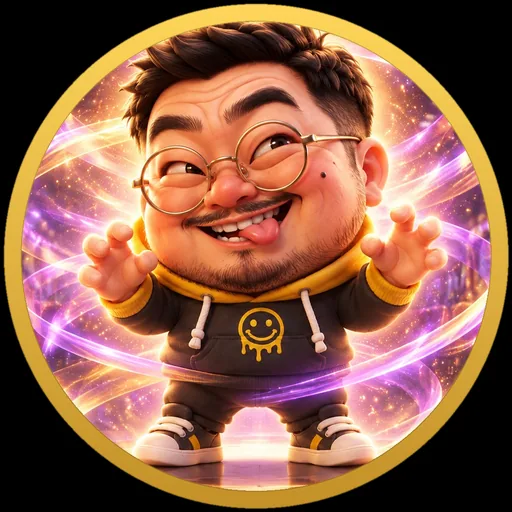
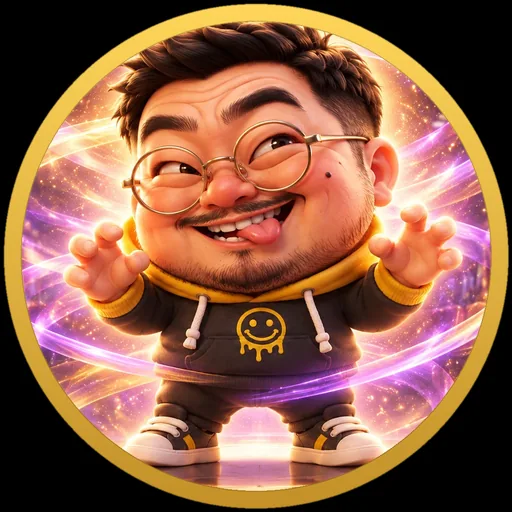
アイコン31番の画像を、正しい比率で切り直して差し替え（pop0.70.15・画像のみ）
Claude-Session: https://claude.ai/code/session_01NmSafmmPRSpXEh3phXd9Ra

diff --git a/multiplayer/room/room.js b/multiplayer/room/room.js
@@ -1,23 +1,23 @@
 import { initializeApp } from 'https://www.gstatic.com/firebasejs/13.0.0/firebase-app.js';
 const LS=(()=>{const m={};let ok=true;try{localStorage.setItem('_t','1');localStorage.removeItem('_t');}catch{ok=false;}return{getItem:k=>{if(ok)try{return localStorage.getItem(k);}catch{}return k in m?m[k]:null;},setItem:(k,v)=>{m[k]=String(v);if(ok)try{localStorage.setItem(k,v);}catch{}},removeItem:k=>{delete m[k];if(ok)try{localStorage.removeItem(k);}catch{}}};})();
 import { getAuth, signInAnonymously, setPersistence, browserLocalPersistence } from 'https://www.gstatic.com/firebasejs/13.0.0/firebase-auth.js';
-import { isLocal, getDatabase, ref, set, get, update, onValue, onDisconnect, runTransaction, serverTimestamp } from './fb.js?v=pop0.70.14';
+import { isLocal, getDatabase, ref, set, get, update, onValue, onDisconnect, runTransaction, serverTimestamp } from './fb.js?v=pop0.70.15';
 import { firebaseConfig } from './firebase-config.js';
 import QRCode from './vendor/qrcode.mjs';
-import { attachTen } from './ten.js?v=pop0.70.14';
-import { attachNpcs, npcNames } from './npc.js?v=pop0.70.14';
-import { FEEDBACK_URL } from './feedback-config.js?v=pop0.70.14';
-import { attachOni, attachOniBots } from './oni.js?v=pop0.70.14';
-import { track, trackError, logEnabled } from './telemetry.js?v=pop0.70.14';
-import { ensureAdult } from './agegate.js?v=pop0.70.14';
-import { AVATARS, avatarOf } from './avatars.js?v=pop0.70.14';
+import { attachTen } from './ten.js?v=pop0.70.15';
+import { attachNpcs, npcNames } from './npc.js?v=pop0.70.15';
+import { FEEDBACK_URL } from './feedback-config.js?v=pop0.70.15';
+import { attachOni, attachOniBots } from './oni.js?v=pop0.70.15';
+import { track, trackError, logEnabled } from './telemetry.js?v=pop0.70.15';
+import { ensureAdult } from './agegate.js?v=pop0.70.15';
+import { AVATARS, avatarOf } from './avatars.js?v=pop0.70.15';
 // テスター端末（?tester=1 で一度開いた端末）は、左上のバッジを赤＋TESTにして、本番と見間違えないようにする（見た目だけ）
 try{if(localStorage.getItem('nq-tester')==='1'){const b=document.querySelector('.badge');if(b){b.textContent+=' TEST';b.style.cssText+=';background:#e91855;color:#fff;padding:1px 7px;border-radius:8px;font-weight:700';}}}catch{}
 // 20歳以上の確認が済むまで、このあとの処理（部屋への参加など）は動かさない。
 await ensureAdult();
 
 const $ = id => document.getElementById(id);
-const homePage = new URL('./', location.href); homePage.searchParams.set('v','pop0.70.14'); if (isLocal) homePage.searchParams.set('npc','1'); if (isLocal && new URL(location.href).searchParams.get('dev')==='1') homePage.searchParams.set('dev','1');
+const homePage = new URL('./', location.href); homePage.searchParams.set('v','pop0.70.15'); if (isLocal) homePage.searchParams.set('npc','1'); if (isLocal && new URL(location.href).searchParams.get('dev')==='1') homePage.searchParams.set('dev','1');
 const homeUrl = homePage.href;
 const params = new URL(location.href).searchParams;
 const validRoom = value => /^[a-f0-9]{32}$/.test(value || '');
@@ -107,14 +107,14 @@ if(isLocal){
  gp.innerHTML='練習をはじめる <span aria-hidden="true">→</span><small>1人用・通信なし'+(dv?'・🛠開発者モード':'')+'</small>';
  const bx=document.createElement('div');bx.className='nqh-two';bx.style.marginTop='10px';
  const mk=(t,h)=>{const x=document.createElement('a');x.className='nqh-button nqh-secondary';x.textContent=t;x.href=h;return x;};
- if(!dv)bx.append(mk('🛠 開発者モードで開く','?v=pop0.70.14&npc=1&dev=1'));
- bx.append(mk('通常のホームへ','?v=pop0.70.14'));
+ if(!dv)bx.append(mk('🛠 開発者モードで開く','?v=pop0.70.15&npc=1&dev=1'));
+ bx.append(mk('通常のホームへ','?v=pop0.70.15'));
  gp.insertAdjacentElement('afterend',bx);
 }
 // 開発者モード：ホームのスイッチをオンにすると、「1人で遊ぶ」は必ず開発者モードで始まる
 if(!isLocal){
  const DK='nq-dev',lk=$('npcLink'),tg=document.createElement('button');tg.type='button';tg.id='devToggle';tg.className='nqh-button nqh-secondary';tg.style.marginTop='10px';
- const paint=()=>{const on=LS.getItem(DK)==='1';tg.textContent=on?'🛠 開発者モード：オン':'🛠 開発者モード：オフ';tg.innerHTML=on?'🛠 開発者モード：オン<small style="display:block;font-weight:400;margin-top:3px">「1人で遊ぶ」から入ると、好きなゲーム・お題を選べます（部屋を作る場合は使えません）</small>':'🛠 開発者モード：オフ';tg.setAttribute('aria-pressed',on?'true':'false');if(lk){lk.href=on?'?v=pop0.70.14&npc=1&dev=1':'?npc=1';let sm=lk.querySelector('small');if(on){if(!sm){sm=document.createElement('small');lk.append(sm);}sm.textContent='🛠 開発者モードで始まります';}else sm?.remove();}};
+ const paint=()=>{const on=LS.getItem(DK)==='1';tg.textContent=on?'🛠 開発者モード：オン':'🛠 開発者モード：オフ';tg.innerHTML=on?'🛠 開発者モード：オン<small style="display:block;font-weight:400;margin-top:3px">「1人で遊ぶ」から入ると、好きなゲーム・お題を選べます（部屋を作る場合は使えません）</small>':'🛠 開発者モード：オフ';tg.setAttribute('aria-pressed',on?'true':'false');if(lk){lk.href=on?'?v=pop0.70.15&npc=1&dev=1':'?npc=1';let sm=lk.querySelector('small');if(on){if(!sm){sm=document.createElement('small');lk.append(sm);}sm.textContent='🛠 開発者モードで始まります';}else sm?.remove();}};
  tg.onclick=()=>{try{LS.setItem(DK,LS.getItem(DK)==='1'?'0':'1');}catch{}paint();};
  paint();$('tell').parentElement.insertAdjacentElement('afterend',tg);
 }
@@ -449,7 +449,7 @@ try {
       const dvOn=new URL(location.href).searchParams.get('dev')==='1',nb=document.createElement('div');
       nb.className='devNote';nb.style.cssText='margin:10px 24px 0;padding:10px 12px;border:1.5px dashed #f2c14e;border-radius:14px;color:#ffe9a3;font-size:13px;text-align:center';
       if(dvOn)nb.textContent='🛠 開発者モード中：スタートすると、画面の右下に🛠が出ます。押すと好きなゲームを選べます。';
-      else{const l=document.createElement('a');l.href='?v=pop0.70.14&npc=1&dev=1';l.textContent='🛠 開発者モードで始め直す（好きなゲームを選べる）';l.style.cssText='color:#ffe9a3;font-weight:800';nb.append(l);}
+      else{const l=document.createElement('a');l.href='?v=pop0.70.15&npc=1&dev=1';l.textContent='🛠 開発者モードで始め直す（好きなゲームを選べる）';l.style.cssText='color:#ffe9a3;font-weight:800';nb.append(l);}
       $('lenBox').insertAdjacentElement('afterend',nb);
     }
     $('lead').innerHTML='通信なしの練習モード。<br>NPCが自動で答えて進みます。';

diff --git a/multiplayer/room/ten.js b/multiplayer/room/ten.js
@@ -1,17 +1,17 @@
 import {artPath,isIcon} from './pop-art.js';
-import {ref,set,get,update,onValue,runTransaction,isLocal,serverTimestamp} from './fb.js?v=pop0.70.14';
-import {showItemFx} from './itemfx.js?v=pop0.70.14';
-import {shufflePlayers,currentTurn} from './turn.js?v=pop0.70.14';
-import {majW,ALL_CARDS,SOLO_CARDS,SOLO_COOLDOWN,LAP_CARDS,cardForRound,isBreak,turnsToBreak,checkStates,tiedTargets,tieCards,cards,votePrompts,muttsuriPrompts,majorityPrompts,mindPrompts,pickPrompt,drawCard,drawDirection,targetsFor,shuffleButtons,drinkAward,tieRoulette,items,itemKinds,drawItem,itemGroup,ITEM_CAP,decideCredit,winnersFor,REACTION_FAIL,dangerOutcome,rewardees,missionStats,kingOrders,kingCats,hasDoubt,breakPeriod,ticketWindow,ticketsFor,tequilaPlan,tequilaPlanOne,sumTickets,NOTCHES,BREAK_DRAWS,tequilaOutcome,itemChoices,tenExact,BAT_LIE,batPct,batLie} from './deck.js?v=pop0.70.14';
-import {REST_CARD} from './deck.js?v=pop0.70.14';
-import {genLayout,replay as gridReplay,startOf as gridStartOf,genHints,hintOk,parseLay,canMove as gridCan,resultsOf as gridResults,CELLS as GCELLS,PASS as GPASS} from './grid.js?v=pop0.70.14';
-import {RL_CONFIG,STAGES as RLS,KIND as RLK,pickOutcome as rlPick,newArt as rlArt,planSpin as rlPlan,rlOrder,chainOf as rlChain,finalOf as rlFinal,curSpinner as rlCur,currentChoice as rlChoice,resultsOfRl,itemsOfCode,KEY_OF_CODE} from './roulette.js?v=pop0.70.14';
-import {createRoulette} from './roulette-ui.js?v=pop0.70.14';
-import {chooseCard,didMission,parseKey,newSeed,pickMindPool,mindToText,mindFromText,pickKingOrders} from './draw.js?v=pop0.70.14';
-import {avatarOf} from './avatars.js?v=pop0.70.14';
-import {doubtH1} from './result-h1.js?v=pop0.70.14';
-import {bombResult,BLAST_S} from './result-bomb.js?v=pop0.70.14';
-import {rockSvg,openedSvg,pickSvg,sparkSvg} from './grid-rocks.js?v=pop0.70.14';
+import {ref,set,get,update,onValue,runTransaction,isLocal,serverTimestamp} from './fb.js?v=pop0.70.15';
+import {showItemFx} from './itemfx.js?v=pop0.70.15';
+import {shufflePlayers,currentTurn} from './turn.js?v=pop0.70.15';
+import {majW,ALL_CARDS,SOLO_CARDS,SOLO_COOLDOWN,LAP_CARDS,cardForRound,isBreak,turnsToBreak,checkStates,tiedTargets,tieCards,cards,votePrompts,muttsuriPrompts,majorityPrompts,mindPrompts,pickPrompt,drawCard,drawDirection,targetsFor,shuffleButtons,drinkAward,tieRoulette,items,itemKinds,drawItem,itemGroup,ITEM_CAP,decideCredit,winnersFor,REACTION_FAIL,dangerOutcome,rewardees,missionStats,kingOrders,kingCats,hasDoubt,breakPeriod,ticketWindow,ticketsFor,tequilaPlan,tequilaPlanOne,sumTickets,NOTCHES,BREAK_DRAWS,tequilaOutcome,itemChoices,tenExact,BAT_LIE,batPct,batLie} from './deck.js?v=pop0.70.15';
+import {REST_CARD} from './deck.js?v=pop0.70.15';
+import {genLayout,replay as gridReplay,startOf as gridStartOf,genHints,hintOk,parseLay,canMove as gridCan,resultsOf as gridResults,CELLS as GCELLS,PASS as GPASS} from './grid.js?v=pop0.70.15';
+import {RL_CONFIG,STAGES as RLS,KIND as RLK,pickOutcome as rlPick,newArt as rlArt,planSpin as rlPlan,rlOrder,chainOf as rlChain,finalOf as rlFinal,curSpinner as rlCur,currentChoice as rlChoice,resultsOfRl,itemsOfCode,KEY_OF_CODE} from './roulette.js?v=pop0.70.15';
+import {createRoulette} from './roulette-ui.js?v=pop0.70.15';
+import {chooseCard,didMission,parseKey,newSeed,pickMindPool,mindToText,mindFromText,pickKingOrders} from './draw.js?v=pop0.70.15';
+import {avatarOf} from './avatars.js?v=pop0.70.15';
+import {doubtH1} from './result-h1.js?v=pop0.70.15';
+import {bombResult,BLAST_S} from './result-bomb.js?v=pop0.70.15';
+import {rockSvg,openedSvg,pickSvg,sparkSvg} from './grid-rocks.js?v=pop0.70.15';
 // 利用ログへの記録依頼（telemetry は room.js だけが持つ。ここからは画面イベントで頼む）
 const nqLog=(event,data={})=>{try{document.dispatchEvent(new CustomEvent('nq-log',{detail:{event,...data}}));}catch{}};
 const LS={getItem:k=>{try{return localStorage.getItem(k);}catch{return null;}},setItem:(k,v)=>{try{localStorage.setItem(k,v);}catch{}},removeItem:k=>{try{localStorage.removeItem(k);}catch{}}};

diff --git a/multiplayer/room/index.html b/multiplayer/room/index.html
@@ -1,5 +1,5 @@
 <!doctype html>
-<html lang="ja"><head><meta charset="utf-8"><meta name="viewport" content="width=device-width,initial-scale=1,viewport-fit=cover"><meta name="theme-color" content="#0c0a08"><title>NOMI QUEST｜みんなで遊ぶ</title><link rel="manifest" href="manifest.webmanifest"><link rel="icon" type="image/png" href="favicon-64.png"><link rel="apple-touch-icon" href="apple-touch-icon.png"><link rel="stylesheet" href="pop-fonts.css"><link rel="stylesheet" href="room.css?v=pop0.70.14"><link rel="stylesheet" href="home.css?v=pop0.70.14"><link rel="stylesheet" href="lobby.css?v=pop0.70.14"><link rel="stylesheet" href="oni-preserved.css"></head>
+<html lang="ja"><head><meta charset="utf-8"><meta name="viewport" content="width=device-width,initial-scale=1,viewport-fit=cover"><meta name="theme-color" content="#0c0a08"><title>NOMI QUEST｜みんなで遊ぶ</title><link rel="manifest" href="manifest.webmanifest"><link rel="icon" type="image/png" href="favicon-64.png"><link rel="apple-touch-icon" href="apple-touch-icon.png"><link rel="stylesheet" href="pop-fonts.css"><link rel="stylesheet" href="room.css?v=pop0.70.15"><link rel="stylesheet" href="home.css?v=pop0.70.15"><link rel="stylesheet" href="lobby.css?v=pop0.70.15"><link rel="stylesheet" href="oni-preserved.css"></head>
 <body class="onHome"><main>
 <header><span class="badge">GOLD 0.70k</span><span id="connection" role="status">接続中</span></header>
 
@@ -87,5 +87,5 @@
 <textarea id="boxText" maxlength="200" rows="4" placeholder="例：ルール説明がもう少し短いと嬉しい"></textarea>
 <button type="button" id="boxSend" class="ok" disabled>投書する</button><p id="boxThanks" class="note" hidden>ありがとう！ 届きました。</p><p id="boxOff" class="note" hidden>いまは受付を止めています。</p>
 <button type="button" id="boxClose" class="no">閉じる</button></div></div>
-<div id="rulesModal" class="rulesModal" hidden role="dialog" aria-modal="true" aria-labelledby="rulesTitle"><div class="rulesCard"><h2 id="rulesTitle">ルール（<span id="rulesStep">1</span>/4）</h2><div id="rulesBody" class="rulesBody"></div><div class="rulesNav"><button id="rulesPrev" class="secondary" type="button">← 前へ</button><button id="rulesNext" type="button">次へ →</button></div><button id="rulesClose" class="textButton" type="button">閉じる</button></div></div></main><script type="module" src="room.js?v=pop0.70.14"></script><div id="qrInstall" class="installAsk qrInstall" role="dialog" aria-label="ホーム画面に追加" hidden><h2>📲 ホーム画面に追加しますか？</h2><p>次からアイコンを押すだけで、すぐ遊べます。</p><button id="qrInstallYes" type="button">追加する</button><button id="qrInstallLater" class="textButton" type="button">あとで</button><p id="qrInstallHelp" hidden></p></div>
+<div id="rulesModal" class="rulesModal" hidden role="dialog" aria-modal="true" aria-labelledby="rulesTitle"><div class="rulesCard"><h2 id="rulesTitle">ルール（<span id="rulesStep">1</span>/4）</h2><div id="rulesBody" class="rulesBody"></div><div class="rulesNav"><button id="rulesPrev" class="secondary" type="button">← 前へ</button><button id="rulesNext" type="button">次へ →</button></div><button id="rulesClose" class="textButton" type="button">閉じる</button></div></div></main><script type="module" src="room.js?v=pop0.70.15"></script><div id="qrInstall" class="installAsk qrInstall" role="dialog" aria-label="ホーム画面に追加" hidden><h2>📲 ホーム画面に追加しますか？</h2><p>次からアイコンを押すだけで、すぐ遊べます。</p><button id="qrInstallYes" type="button">追加する</button><button id="qrInstallLater" class="textButton" type="button">あとで</button><p id="qrInstallHelp" hidden></p></div>
 </body></html>

diff --git a/multiplayer/room/deck.js b/multiplayer/room/deck.js
@@ -1,5 +1,5 @@
-import {itemsOfCode,meterOfCode} from './roulette.js?v=pop0.70.14';
-import {hashStr} from './draw.js?v=pop0.70.14';
+import {itemsOfCode,meterOfCode} from './roulette.js?v=pop0.70.15';
+import {hashStr} from './draw.js?v=pop0.70.15';
 // Titles and outcomes follow game-src/catalog.json and cards.js at v0.6.49.
 export const muttsuriPrompts=["一番むっつりだと思う人は？", "普段おとなしいのに夜は激しそうな人は？", "スマホの検索履歴が一番ヤバそうな人は？", "実は一番経験豊富そうな人は？", "真面目な顔で妄想が止まらなそうな人は？", "ひとりの時間が多そうな人は？", "秘密のアカウントを持ってそうな人は？", "こっそりコレクションを隠してそうな人は？", "清楚に見えてギャップがありそうな人は？", "ベッドの上で豹変しそうな人は？", "夜ふかしして動画を見てそうな人は？", "下ネタに赤くなるけど実は好きな人は？", "写真フォルダに秘密がありそうな人は？", "合コンで静かに本命を狙ってそうな人は？", "実は一番ロマンチストな妄想家は？", "ばれないように準備だけは万全な人は？","ひとりで盛り上がるタイプは？","隠しフォルダが多そうな人は？","実はコスプレに興味がありそうな人は？","本命にだけ甘えん坊になりそうな人は？","実は一番Mっぽい人は？","実は一番Sっぽい人は？","こっそり官能小説を読んでそうな人は？","ホテルの部屋選びに口を出しそうな人は？","マイおもちゃ（大人の）を持ってそうな人は？"];
 export const votePrompts=["エロそうな人は？","エッチが上手そうな人は？","むっつりスケベは誰？","電マ使ってそうな人は？","ウーマナイザー使ってそうな人は？","リアルよりアニメが好きそうな人は？","今夜ホテルへ行きたいと思ってそうな人は？","パンツの臭いをこっそり嗅いでそうな人は？","浮気をしそうな人は？","複数プレイが好きそうな人は？","NTR（ネトラレ）が好きそうな人は？","ハメ撮りが好きそうな人は？","舐めるの好きそうな人は？","夜に赤ちゃんになりそうな人は？","下着にこだわりがありそうな人は？","大人のお店に一人で入れそうな人は？","夜のお誘いが一番うまそうな人は？","彼女（彼）の前で別人になりそうな人は？","恥ずかしい動画を持っていそうな人は？","最初のデートで手を出しそうな人は？","マッチングアプリを一番使いこなしてそうな人は？","1回じゃ終わらなさそうな人は？"];

diff --git a/multiplayer/room/npc.js b/multiplayer/room/npc.js
@@ -1,9 +1,9 @@
 // 練習モード用のNPC。見えない画面(attachTen)を1人ずつ動かし、回答はここで自動入力する。
-import {ref,set,get,serverTimestamp} from './fb.js?v=pop0.70.14';
-import {attachTen} from './ten.js?v=pop0.70.14';
-import {currentTurn} from './turn.js?v=pop0.70.14';
-import {rlOrder,chainOf as rlChain,curSpinner as rlCur,pickOutcome as rlPick,newArt as rlArt} from './roulette.js?v=pop0.70.14';
-import {replay as gridReplay,CELLS as GCELLS,PASS as GPASS,startOf as gridStart} from './grid.js?v=pop0.70.14';
+import {ref,set,get,serverTimestamp} from './fb.js?v=pop0.70.15';
+import {attachTen} from './ten.js?v=pop0.70.15';
+import {currentTurn} from './turn.js?v=pop0.70.15';
+import {rlOrder,chainOf as rlChain,curSpinner as rlCur,pickOutcome as rlPick,newArt as rlArt} from './roulette.js?v=pop0.70.15';
+import {replay as gridReplay,CELLS as GCELLS,PASS as GPASS,startOf as gridStart} from './grid.js?v=pop0.70.15';
 const devMode=typeof location!=='undefined'&&new URL(location.href).searchParams.get('dev')==='1';
 export const npcNames=['ココ','ミミ','ナナ','リリ','ユユ'];
 // カードごとのNPCの回答（1人分）。undefinedなら今は答える立場ではない。

diff --git a/multiplayer/room/oni.js b/multiplayer/room/oni.js
@@ -1,9 +1,9 @@
 // 鬼ごっこ（リアルタイム版ミニゲーム）の画面と進行。
 // 自分の位置は自分の端末で動かして1秒に約8回送り、他の人の位置は少し遅らせてなめらかに見せる。
 // 捕まった・拾った・出口・時間切れの判定は、ホストの端末だけが行う。
-import {ref,set,update,onValue,isLocal} from './fb.js?v=pop0.70.14';
-import * as RT from './onirt.js?v=pop0.70.14';
-import MET from './onimeta.js?v=pop0.70.14';
+import {ref,set,update,onValue,isLocal} from './fb.js?v=pop0.70.15';
+import * as RT from './onirt.js?v=pop0.70.15';
+import MET from './onimeta.js?v=pop0.70.15';
 const {N,EXIT,TIME,ODDS,ITEM_ICON}=RT;
 const esc=t=>String(t).replace(/[&<>"']/g,c=>({'&':'&amp;','<':'&lt;','>':'&gt;','"':'&quot;',"'":'&#39;'}[c]));
 const arr=v=>Array.isArray(v)?v:v&&typeof v==='object'?Object.values(v):[];

diff --git a/multiplayer/room/result-bomb.js b/multiplayer/room/result-bomb.js
@@ -1,6 +1,6 @@
 // ドキドキしてんじゃねーよ！（爆弾）専用の結果画面。ダウト成功(H1)の構図を土台に、描画だけを差し替える。
 // 判定・通信・次ターン処理は持たない。入力はゲームが計算済みの値。
-import {doubtH1} from './result-h1.js?v=pop0.70.14';
+import {doubtH1} from './result-h1.js?v=pop0.70.15';
 export const BLAST_S=1.6; // 爆発の演出の長さ（この間は結果を出さない）
 export function bombResult({losers,rows,uid,state,div,txt,popImg,avatarOf,elapsed=99}){
  const w=doubtH1({losers,rows,uid,state,div,txt,popImg,avatarOf});

diff --git a/multiplayer/room/roulette-ui.js b/multiplayer/room/roulette-ui.js
@@ -1,6 +1,6 @@
 // 10番 GO TO HEAVEN OR HELL のルーレット画面（カジノ風）。CSSとJSだけの軽い演出（動画・画像・大量パーティクルは使わない）。
 // 全員の端末が、記録された (段階・結果・種) から planSpin() で同じ動きを作る。このファイルは「見せる」だけで、通信はしない。
-import {KIND,STAGES} from './roulette.js?v=pop0.70.14';
+import {KIND,STAGES} from './roulette.js?v=pop0.70.15';
 
 const easeOutCubic=t=>1-Math.pow(1-t,3);
 const easeInOut=t=>t<.5?2*t*t:1-Math.pow(-2*t+2,2)/2;

diff --git a/multiplayer/room/roulette.js b/multiplayer/room/roulette.js
@@ -1,6 +1,6 @@
 // 10番「GO TO HEAVEN OR HELL」（ルーレット三段勝負・2026-10-27 確定）の純粋な計算ロジック。画面や通信には触らない。
 // 回す人の端末が「結果の名前 o」と「演出の種 a」を記録に書き、全員の端末が (stage,o,a) から同じ見た目を作る。
-import {rngFrom} from './draw.js?v=pop0.70.14';
+import {rngFrom} from './draw.js?v=pop0.70.15';
 
 // ---- 調整用の設定（実機で調整するのでここにまとめる）----
 export const RL_CONFIG={

diff --git a/multiplayer/room/RELEASE.md b/multiplayer/room/RELEASE.md
@@ -281,32 +281,36 @@ Released 2026-10-31 with explicit user approval ("そのまま引き続きお願
 - Firebaseルール：0.70j が必要（hostUid の交代、ドキドキの渡し期限）。
 Rollback: code → branch backup/pre-gold070d-20261031 of fleezappm-ux/nomi-quest-play (= GOLD 0.70c).
 
-## GOLD 0.70f（pop0.70.14）— 0.70d の上に作成（お休みモード 0.70e は含まない）
+## GOLD 0.70f（pop0.70.15）— 0.70d の上に作成（お休みモード 0.70e は含まない）
 確定仕様（2026-11-01 ユーザー指示）だけを反映。通信・Firebaseルールの変更なし。
 - 8ターンごとのドリンクタイム：ライムなしで一番多い人が同率なら、ルーレットで1人に決める（ラウンド番号＋同率の人から全端末で同じ結果。画面は文章のみ、リール演出なし）。
 - 最終ドリンクタイム：メーターの精算をやめ、「おつかれさま！」だけですっぱり終わる。
 - 試験：tests/tie-roulette.test.mjs（6項目＋1000回の偏り確認）。
 Rollback: code → backup/pre-gold070f-20261101 (nomi-quest-play) = GOLD 0.70d.
 
-### GOLD 0.70j（pop0.70.14）利用ログの拡張（ゲームのルール変更なし）
+### GOLD 0.70j（pop0.70.15）利用ログの拡張（ゲームのルール変更なし）
 - ログに「使い方（練習／開発／テスター）」「入り口（QR／招待／ホーム画面／直接）」「メモ」の3列を追加（スプレッドシート側の受け口は2026-11-05に新バージョン2へ更新済み）。
 - 新しい記録：マイページ等のタブ、離席、ホスト交代、ホーム画面追加、ゲーム終了の1行（ホストから1回）、エラー（1回の表示で最大5件・重複なし・名前なし）。
 - Firebaseルールの変更なし。ゲームの通信は増えない（ログ送信が少し増えるだけ）。
 Rollback: code → backup/pre-gold070j-20261105 (nomi-quest-play) = GOLD 0.70i.
 
-### GOLD 0.70k（pop0.70.14）テスター端末のバッジを赤＋TESTに（見た目だけ）
+### GOLD 0.70k（pop0.70.15）テスター端末のバッジを赤＋TESTに（見た目だけ）
 - ?tester=1 で一度開いた端末は、左上のバッジが「GOLD 0.70k TEST」の赤になる（本番と見間違え防止）。?tester=0 で元に戻る。
 - 通信・ルール・ゲームの動きは変更なし。
 Rollback: code → backup/pre-gold070k-20261105 (nomi-quest-play) = GOLD 0.70j.
 
-## アイコン31番を追加（pop0.70.14・2026-11-09）
+## アイコン31番を追加（pop0.70.15・2026-11-09）
 - 「メガネの人」を追加（画像2枚＋一覧に1行）。ルール・通信量の変更なし（Firebaseルールは01〜99番を許可済み）。
 Rollback: code → backup/pre-avatar31-20261109 (nomi-quest-play) = GOLD 0.70k。
 
-## アイコン32番を追加（pop0.70.14・2026-11-10）
+## アイコン32番を追加（pop0.70.15・2026-11-10）
 - 「ロングヘアの子」を追加（画像2枚＋一覧に1行）。ルール・通信量の変更なし。
 Rollback: code → backup/pre-avatar32-20261110 (nomi-quest-play) = pop0.70.12。
 
-## アイコン33番を追加（pop0.70.14・2026-11-10）
+## アイコン33番を追加（pop0.70.15・2026-11-10）
 - 「ネコ耳の子」を追加（画像2枚＋一覧に1行）。ルール・通信量の変更なし。
 Rollback: code → backup/pre-avatar33-20261110 (nomi-quest-play) = pop0.70.13。
+
+## アイコン31番の画像を差し替え（pop0.70.15・2026-11-10）
+- 縦が約8%伸びていたのを、正しい比率で切り直した（画像2枚のみ）。ルール・通信量の変更なし。
+Rollback: code → backup/pre-avatar31fix-20261110 (nomi-quest-play) = pop0.70.14。
